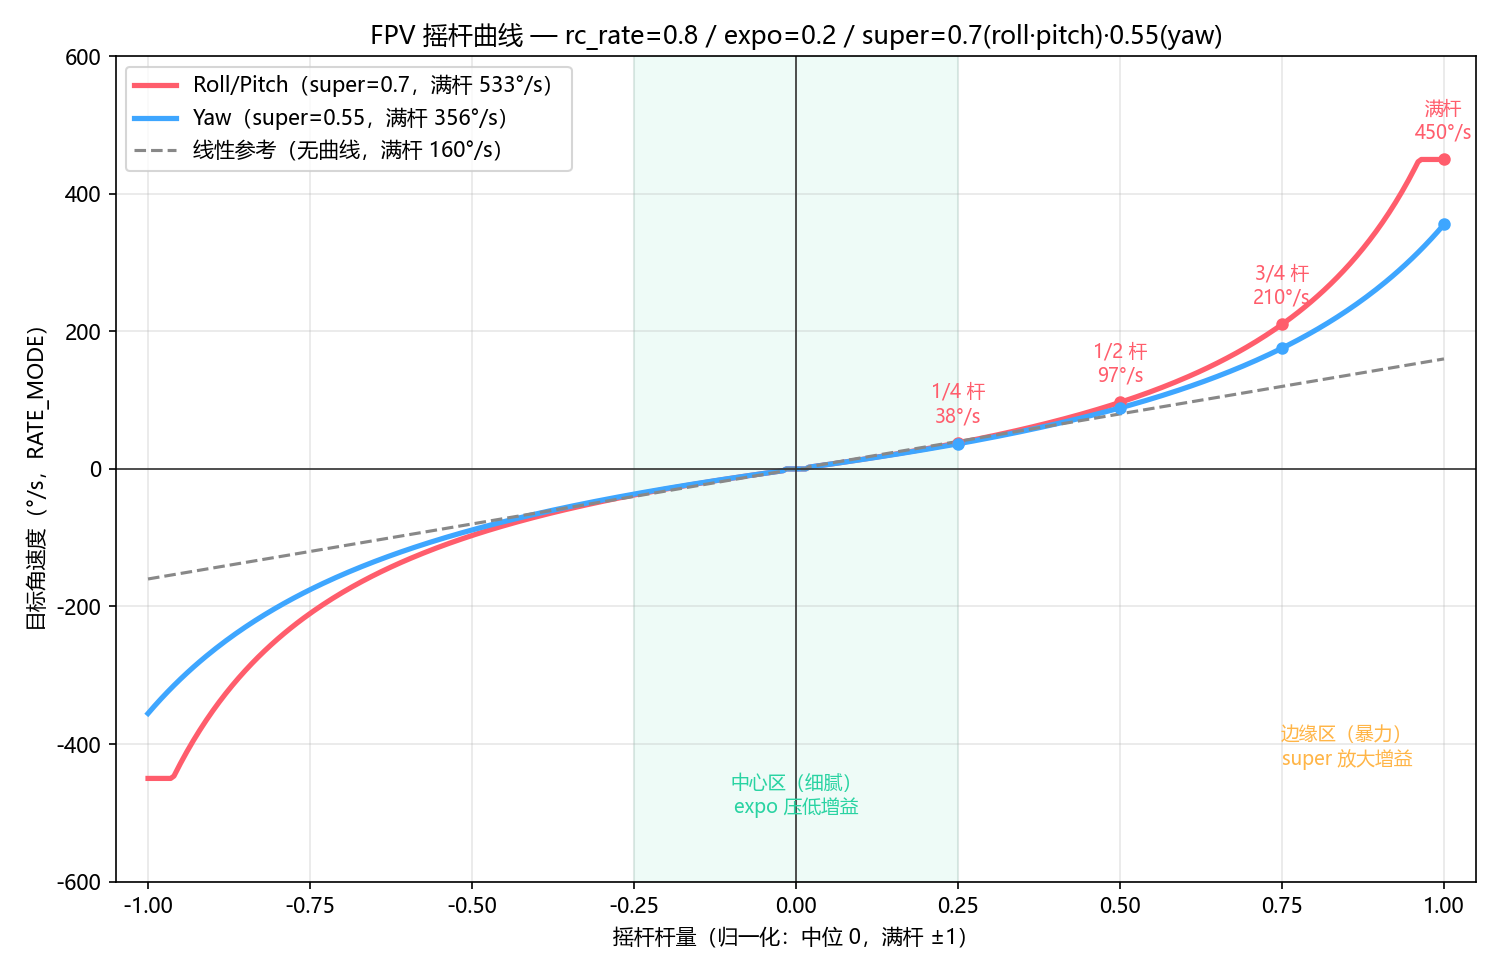
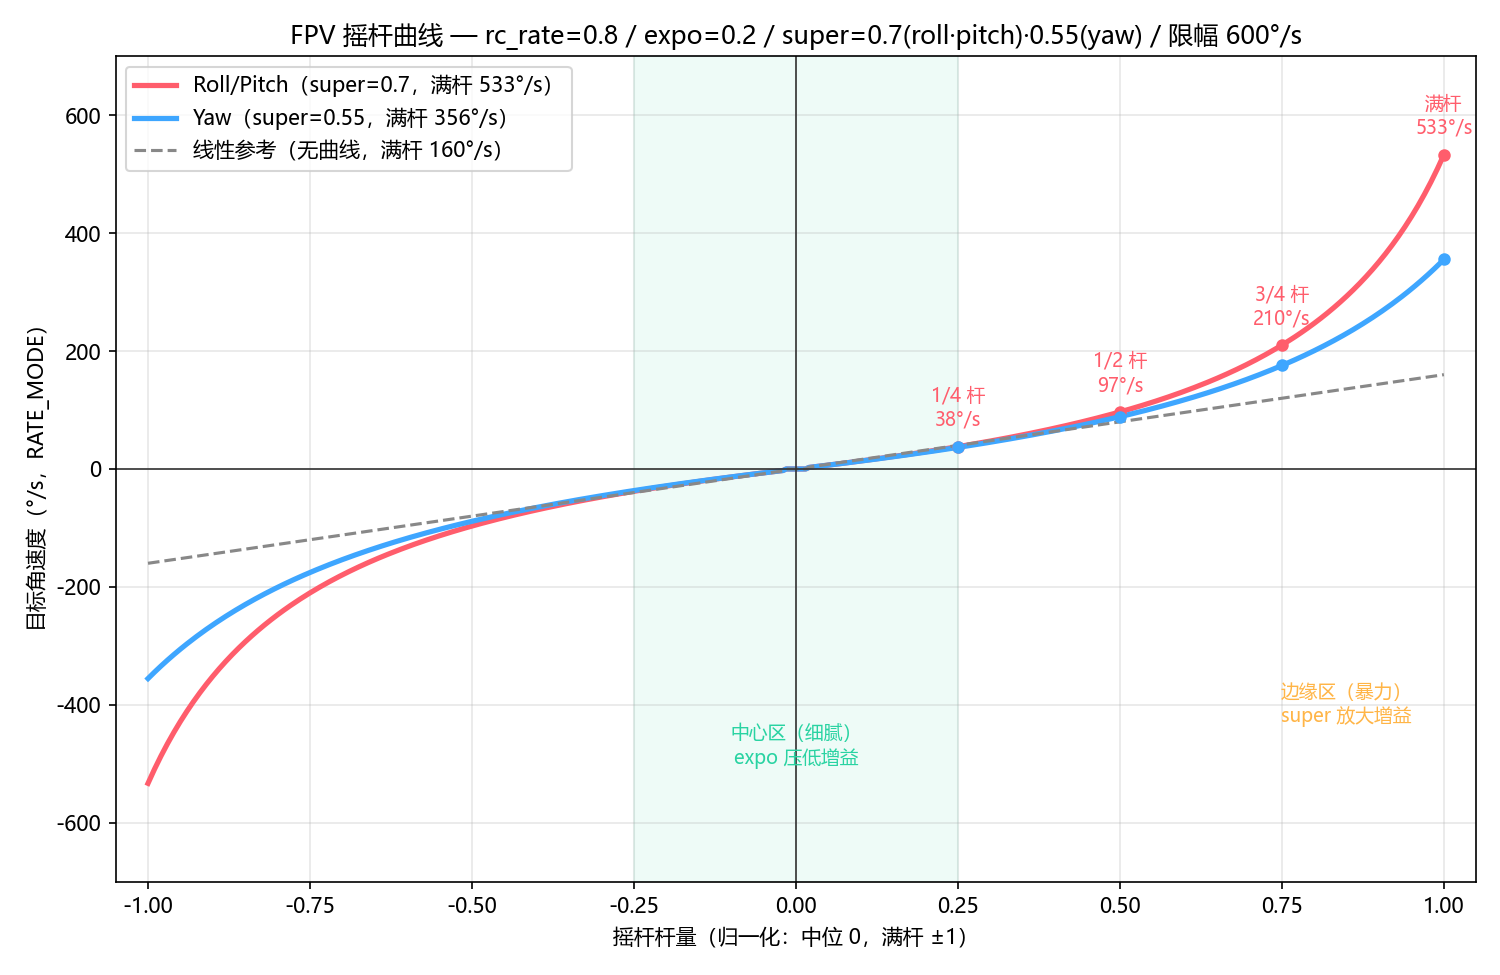
fix(fcs): RATE_MODE 限幅 80→600°/s 解耦 — FPV 曲线完整呈现 + 安全网保留
背景：RATE_MODE 原限幅复用姿态外环 kMaxTargetRate=80°/s（存档实飞值），
接入 FPV 摇杆曲线后曲线在 ~半杆（97°/s）就被削平，满杆暴力手感出不来。

- MAX_MANUAL_*RATE 80 → 600：默认参数满杆理论值 533°/s（roll/pitch）完整
  呈现 + 12% 余量；yaw 356°/s 不触限
- 限幅不彻底禁用（安全网）：super 双曲 + rc_rate 上调时指令会爆炸
  （rc_rate=2.5+super=0.9 → 理论 5000°/s），600 是曲线之上的兜底
- rc_rate 上调到 1.0 时理论 667°/s 触限——限幅边界清晰
- 曲线图更新（限幅 600 标注）；编译/host 全绿

⚠ 行为变化：RATE_MODE 满杆角速度 = 存档实飞 80°/s 的 7.5 倍，
实机先从低杆量逐步体验（曲线中心区依然细腻）

diff --git a/TandemVec_FCS/src/state_data.cpp b/TandemVec_FCS/src/state_data.cpp
@@ -98,12 +98,17 @@ const float POS_CTRL_MAX_TILT_ANGLE_RAD = 15.0f * DEG_TO_RAD;
 //  来源: 位置环最大倾角 15°。sin(15)=0.26, 水平加速 a_max=0.26×g≈2.5m/s²。
 const float POS_CTRL_MAX_THRUST_COMP = sinf(POS_CTRL_MAX_TILT_ANGLE_RAD);
 
-// ★ 2026-08-07 三轴均对齐存档实飞验证值 80°/s（原 50/50/35）：
-//  yaw 原为 35 是“差速时延+低效能”的保守取值，但实测打杆无反应；
-//  存档实飞用 80°/s（tools/verify_yaw_vs_archive.py 对比）。
-const float MAX_MANUAL_rollRATE  = 80.0f;  // = MAX_TARGET_RATE
-const float MAX_MANUAL_pitchRATE = 80.0f;
-const float MAX_MANUAL_yawRATE   = 80.0f;  // 对齐存档（原 35 过保守）
+// ★ 2026-08-11 FPV 摇杆曲线接入后重定：RATE_MODE 手动打杆限幅 80 → 600°/s。
+//   原 80 复用姿态外环 kMaxTargetRate（存档实飞验证值），但 RATE_MODE 是纯手动
+//   角速度通道，不应受姿态环限幅约束——80°/s 会让 FPV 曲线在 ~半杆就被削平
+//   （默认曲线半杆 97°/s 已超限），满杆暴力手感出不来。
+//   600 = 默认参数满杆理论值 533°/s（rc_rate 0.8×200/(1−0.7)）之上留 12% 余量，
+//   曲线完整呈现；rc_rate 上调到 1.0 时理论 667°/s 触限——限幅仍是安全网
+//   （super 双曲 + rc_rate 调高时指令会爆炸，不可完全禁用）。
+//   ⚠ 行为变化：满杆角速度 = 存档实飞 80°/s 的 7.5 倍，实机先从低杆量逐步体验。
+const float MAX_MANUAL_rollRATE  = 600.0f;
+const float MAX_MANUAL_pitchRATE = 600.0f;
+const float MAX_MANUAL_yawRATE   = 600.0f;
 
 // --- 3.3 位置与速度控制限制 ---
 // ★ 2026-08-08 C路径重构：值取自 include/FlightCtrlParams.h 别名（唯一事实源）。

diff --git a/TandemVec_FCS/include/FlightCtrlParams.h b/TandemVec_FCS/include/FlightCtrlParams.h
@@ -111,7 +111,7 @@ static constexpr FlightCtrlParams kFlightCtrlParamsDefaults = {
     /* inertia_comp_mask      */ 0x03,   // ★2026-08-10 前馈全开（陀螺耦合+转子陀螺）
     // ---- FPV 摇杆曲线（★2026-08-11 RATE_MODE 接入）----
     //   默认：rc_rate=0.8（★2026-08-11 用户指定——满杆基准 160°/s；×super 后
-    //   roll/pitch 理论 533°/s 但被 MAX_MANUAL_rollRATE=450 限幅、yaw 356°/s）；
+    //   roll/pitch 理论 533°/s、yaw 356°/s，均不触 MAX_MANUAL_*RATE=600 限幅）；
     //   expo 全轴 0.2；super roll/pitch 0.7、yaw 0.55。实机手感调整走 0xE1 在线写
     /* rc_rate               */ 0.8f,
     /* rc_expo[3]            */ { 0.2f, 0.2f, 0.2f },
